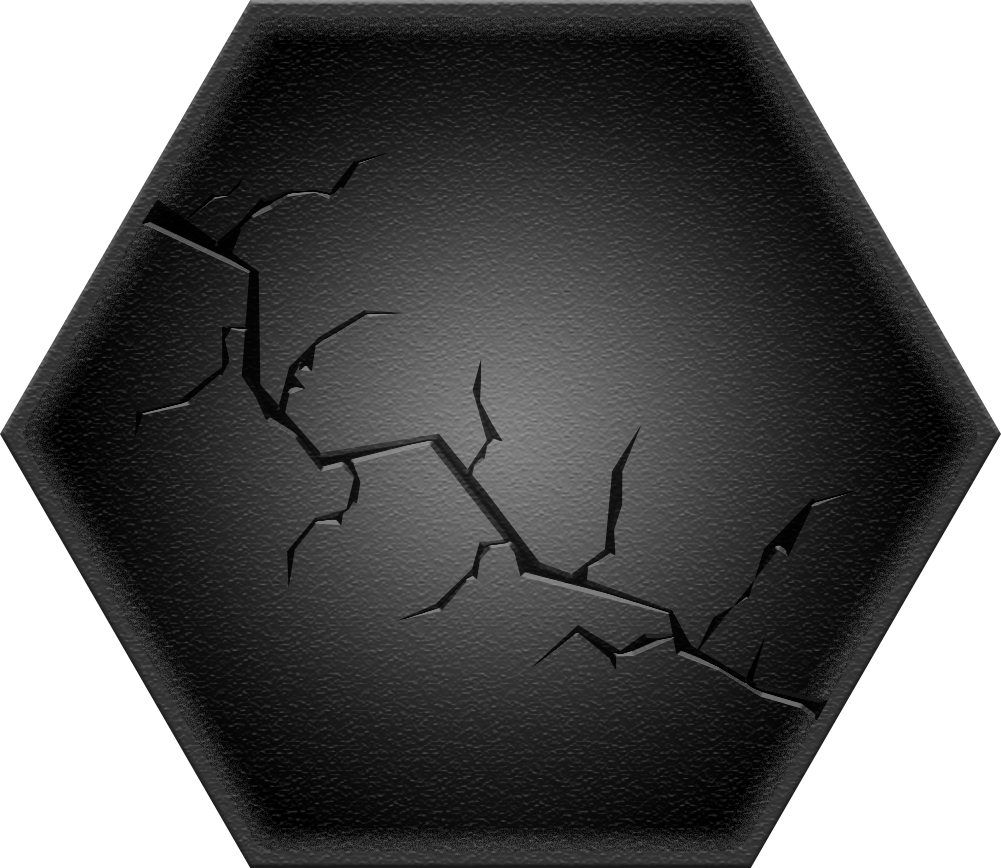
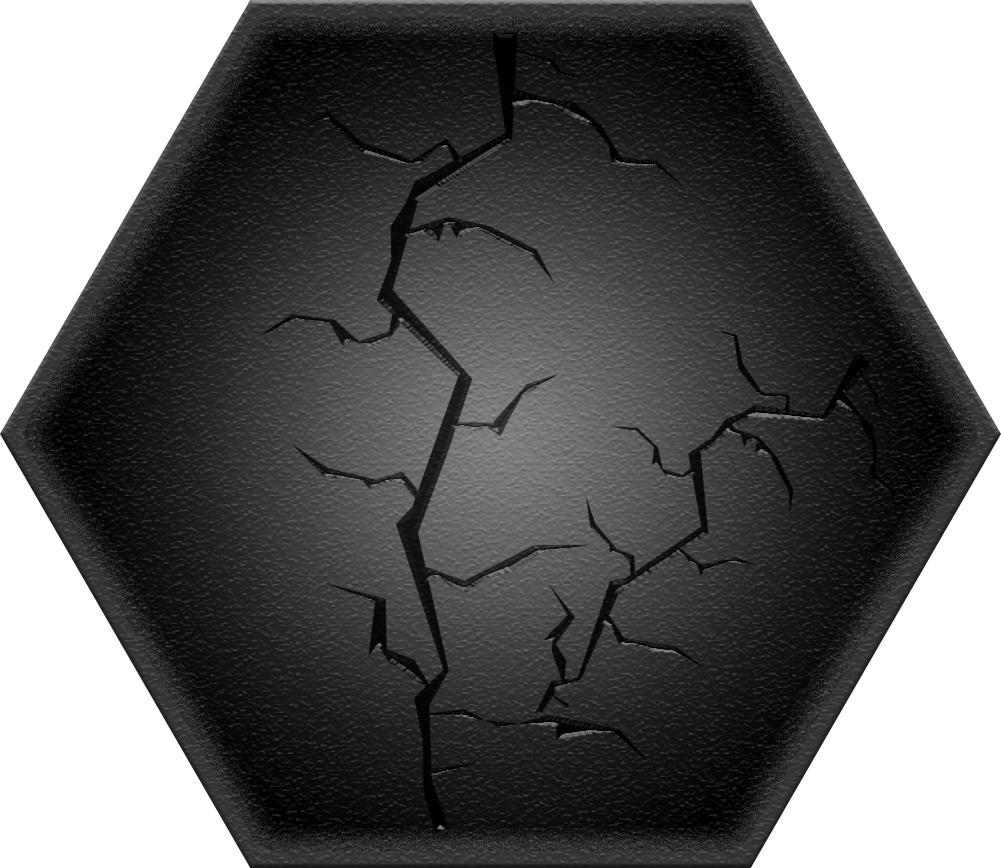
Add new textures, change fog opacity for testing (easier to see)

diff --git a/Final Game/Shared Code/Map/MapGenerator.cs b/Final Game/Shared Code/Map/MapGenerator.cs
@@ -13,11 +13,15 @@ namespace HuntTheWumpus.SharedCode.GameMap
             //for now just makes a preset map
             map.Cave = new Cave();
 
-            map.Cave.AddRoom(0, new int[] { -1, 1, -1, -1, -1, -1 });
+            map.Cave.AddRoom(0, new int[] { -1, 1, 5, -1, -1, -1 });
             map.Cave.AddRoom(1, new int[] { -1, 2, -1, -1, 0, -1 }, bats: true);
             map.Cave.AddRoom(2, new int[] { -1, -1, 3, -1, 1, -1 }, pit: true);
-            map.Cave.AddRoom(3, new int[] { -1, -1, 4, -1, -1, 2 }, gold: 5);
-            map.Cave.AddRoom(4, new int[] { -1, -1, -1, -1, -1, 3 }, arrows: 5);
+            map.Cave.AddRoom(3, new int[] { -1, -1, 4, -1, 6, 2 }, gold: 5);
+            map.Cave.AddRoom(4, new int[] { -1, -1, -1, -1, 7, 3 }, arrows: 5);
+            map.Cave.AddRoom(5, new int[] { -1, 6, -1, -1, -1, 0 });
+            map.Cave.AddRoom(6, new int[] { -1, 3, 7, -1, 5, -1 });
+            map.Cave.AddRoom(7, new int[] { -1, 4, -1, -1, 8, 6 });
+            map.Cave.AddRoom(8, new int[] { -1, 7, -1, -1, -1, -1 });
 
             map.Wumpus.Location = 4;
         }

diff --git a/Final Game/Shared Code/GUI/MapRenderer.cs b/Final Game/Shared Code/GUI/MapRenderer.cs
@@ -29,7 +29,7 @@ namespace HuntTheWumpus.SharedCode.GUI
         private const int VirtualViewHeight = 500;
         private const int PlayerSize = 500;
 
-        public const int NumCloudTextures = 1, NumDoorTextures = 1, NumRoomTextures = 1;
+        public const int NumCloudTextures = 1, NumDoorTextures = 5, NumRoomTextures = 5;
 
         ParticleSystem.ParticleSystem fogSystem;
         private Texture2D[] CloudTextures, ClosedDoorTextures, RoomBaseTextures;

diff --git a/Final Game/Shared Code/GUI/ParticleSystem/FogOfWar.cs b/Final Game/Shared Code/GUI/ParticleSystem/FogOfWar.cs
@@ -19,7 +19,7 @@ namespace HuntTheWumpus.SharedCode.GUI.ParticleSystem
         const int MIN_LIFE = 5000;
         const int MAX_LIFE = 20000;
 
-        const float OPACITY = 0.5f;
+        const float OPACITY = 0.1f;
 
         const float MIN_SIZE = 1.5f;
         const float MAX_SIZE = 5.5f;
